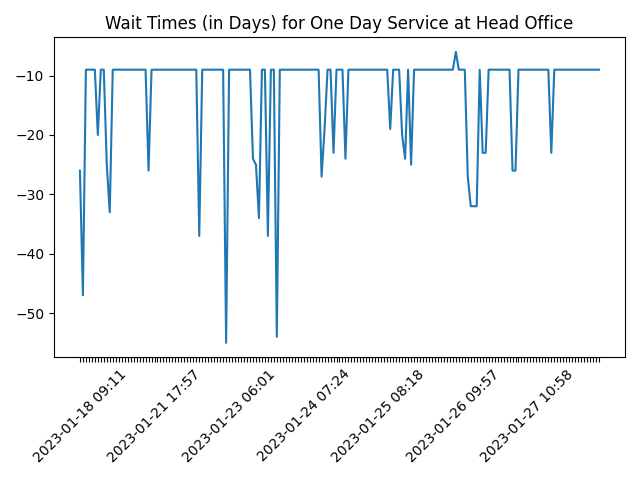
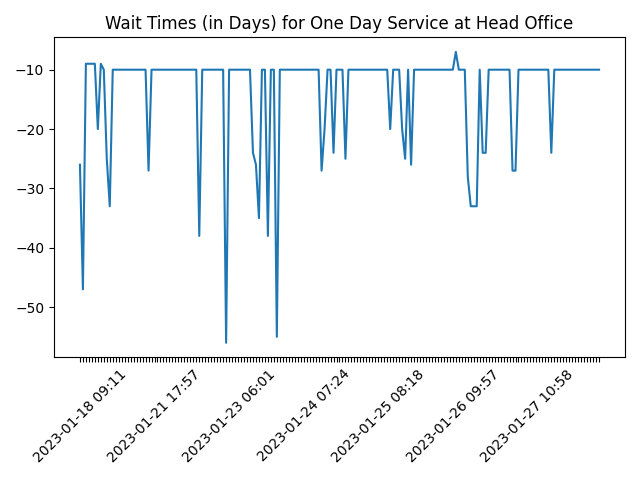
Updated data Mon Mar 20 06:29:12 UTC 2023

diff --git a/README.md b/README.md
@@ -1,5 +1,5 @@
 # Passport Application Reservation System - Availability Report
 
-*As of March 20, 2023 (06:15 AM)*
+*As of March 20, 2023 (11:59 AM)*
 
 Data Source: [Passport Application Reservation System](https://eservices.immigration.gov.lk:8443/appointment/pages/reservationApplication.xhtml)

diff --git a/summary.md b/summary.md
@@ -2,7 +2,7 @@
 
 Of the data from the Passport Application Reservation System of the Sri Lanka Department of Immigration and Emigration.
 
-*As of 2023-03-20 06:15:32*
+*As of 2023-03-20 11:59:10*
 
 ![Wait Time Chart](summary.wait_time_chart.png)
 
